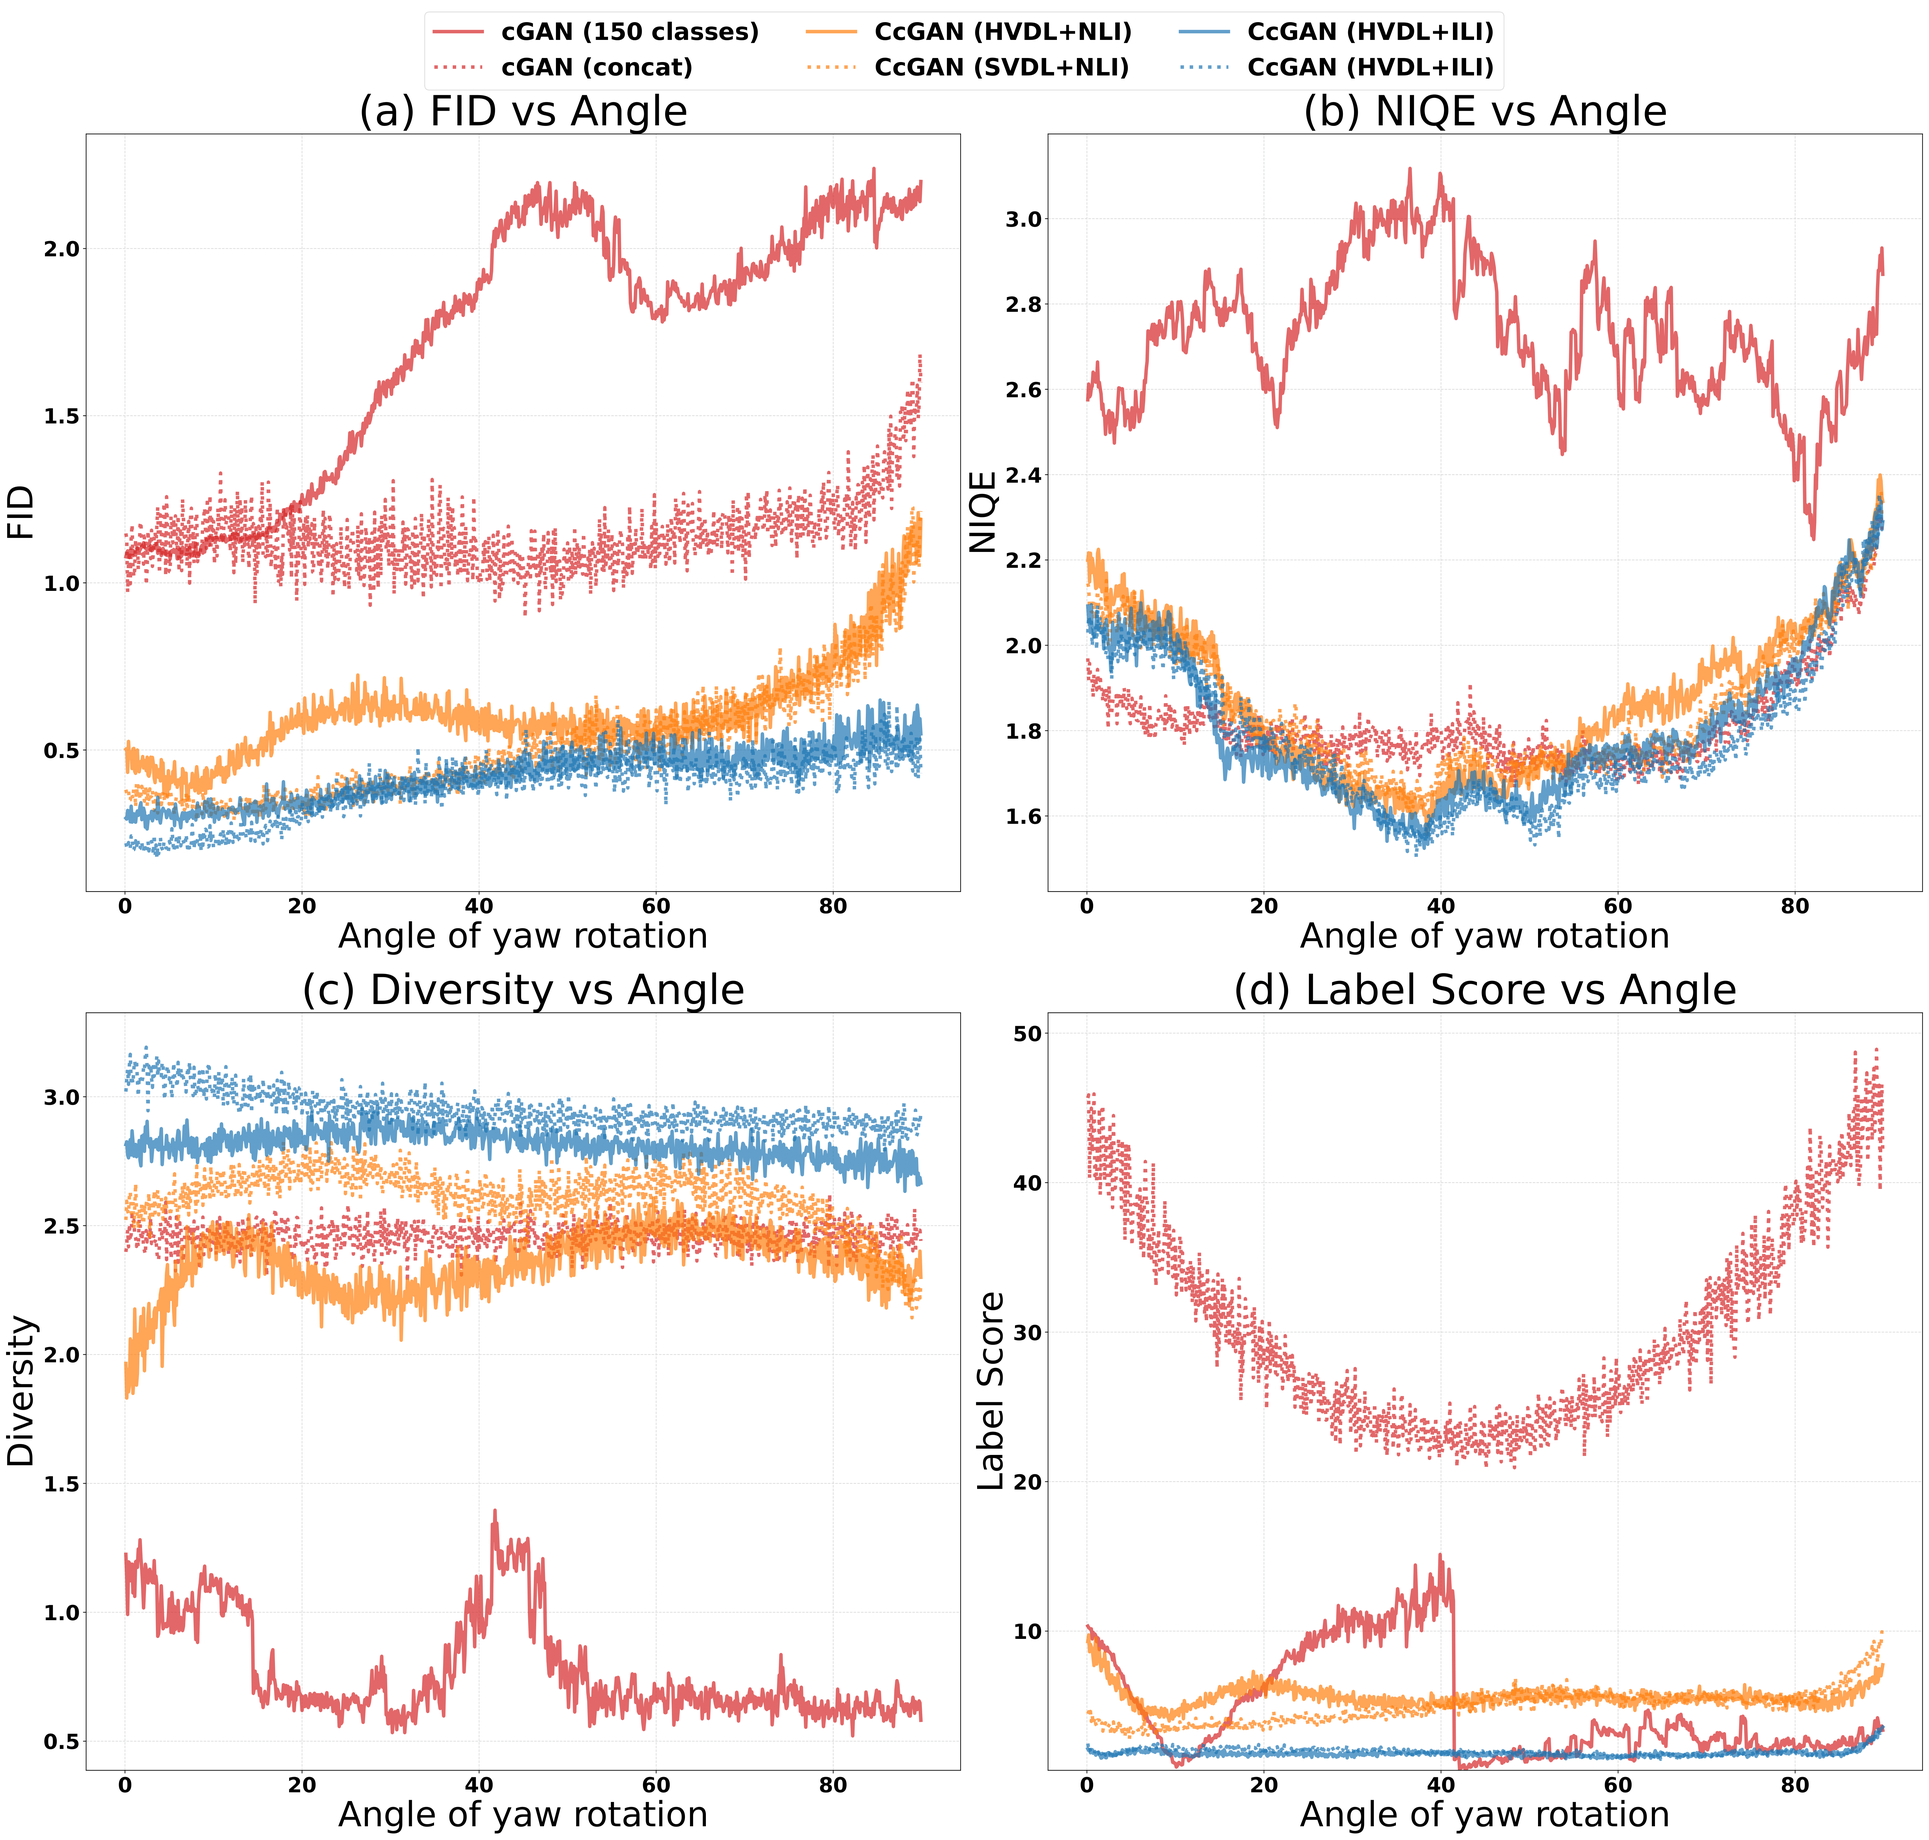
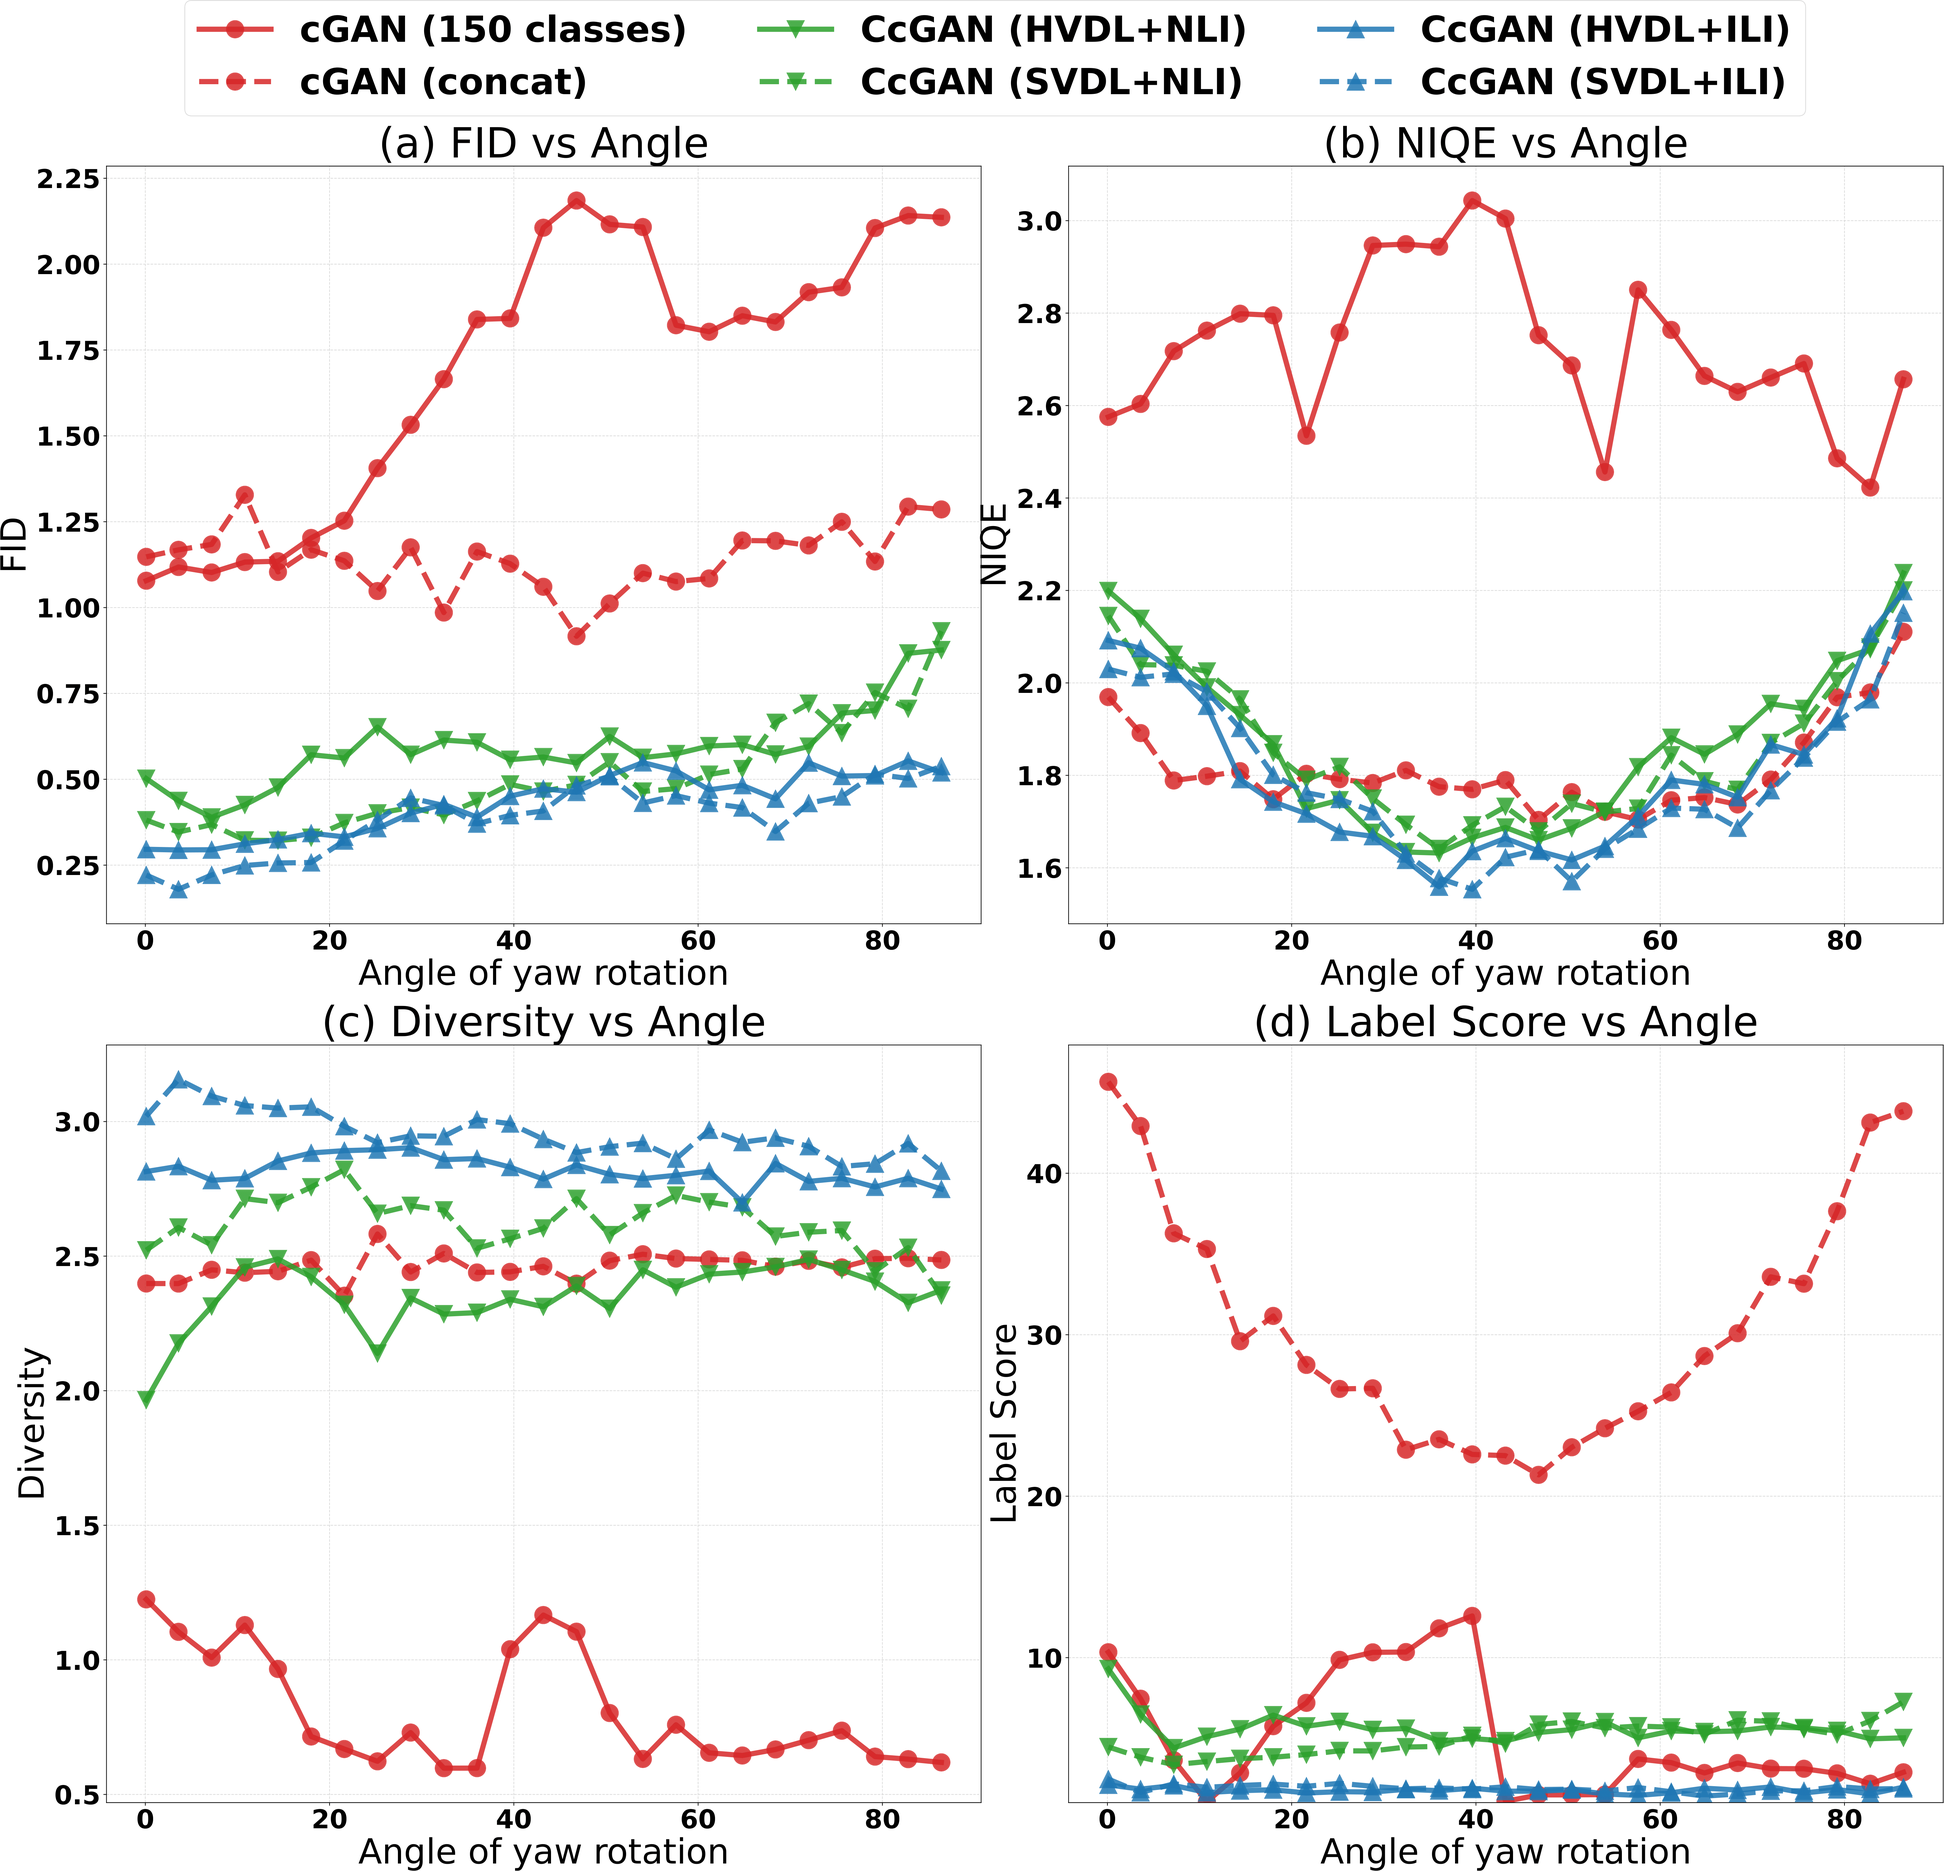
fixed a typo

diff --git a/README.md b/README.md
@@ -1,5 +1,6 @@
 # Continuous Conditional Generative Adversarial Networks
 
+**[UPDATE! 2023-08-01]** We fixed a typo in the codes for computing the Label Score for the Steering Angle (128x128) experiments (the 64x64 experiments are NOT affected). The original evaluation code tends to under-estimate the Label Scores of compared methods. After the fixing, the Label Scores of cGAN (210 classes), cGAN (concat), and CcGAN (SVDL+ILI) are respectively 31.756 (23.005), 42.757 (27.341), and 18.438 (16.072). Fortunately, the conclusion that CcGAN substantially outperforms cGANs is unchanged! <br />
 **[UPDATE! 2022-12-10]** A journal version of CcGAN is accepted by T-PAMI ([link](https://ieeexplore.ieee.org/document/9983478))! <br />
 **[UPDATE! 2021-07-28]** We provide codes for training CcGAN on **high-resolution** RC-49, UTKFace, and Steering Angle where the resolution varies from **128x128** to **256x256**. We also provide simplified codes for computing NIQE. <br />
 **[UPDATE! 2021-07-27]** We add a new baseline cGAN (concat) which directly appends regression labels to the input of generator and the last hidden map of discriminator. cGAN (K classes) and cGAN (concat) are two modifications on conventional cGANs (to fit the regression scenario) and they show two types of failures of conventional cGANs. (1) cGAN (K classes) has high label consistency but bad visual quality and low intra-label diversity. (2) cGAN (concat) has high intra-label diversity but bad/fair visual quality and terrible label consistency. <br />
@@ -11,23 +12,23 @@ This repository provides the source codes for the experiments in our papers for 
 If you use this code, please cite
 ```text
 @ARTICLE{9983478,
-  author={Ding, Xin and Wang, Yongwei and Xu, Zuheng and Welch, William J. and Wang, Z. Jane},
-  journal={IEEE Transactions on Pattern Analysis and Machine Intelligence}, 
-  title={Continuous Conditional Generative Adversarial Networks: Novel Empirical Losses and Label Input Mechanisms}, 
-  year={2023},
-  volume={45},
-  number={7},
-  pages={8143-8158},
-  doi={10.1109/TPAMI.2022.3228915}
+    author={Ding, Xin and Wang, Yongwei and Xu, Zuheng and Welch, William J. and Wang, Z. Jane},
+    journal={IEEE Transactions on Pattern Analysis and Machine Intelligence}, 
+    title={Continuous Conditional Generative Adversarial Networks: Novel Empirical Losses and Label Input Mechanisms}, 
+    year={2023},
+    volume={45},
+    number={7},
+    pages={8143-8158},
+    doi={10.1109/TPAMI.2022.3228915}
 }
 
 @inproceedings{
-      ding2021ccgan,
-      title={Cc{GAN}: Continuous Conditional Generative Adversarial Networks for Image Generation},
-      author={Xin Ding and Yongwei Wang and Zuheng Xu and William J Welch and Z. Jane Wang},
-      booktitle={International Conference on Learning Representations},
-      year={2021},
-      url={https://openreview.net/forum?id=PrzjugOsDeE}
+    ding2021ccgan,
+    title={Cc{GAN}: Continuous Conditional Generative Adversarial Networks for Image Generation},
+    author={Xin Ding and Yongwei Wang and Zuheng Xu and William J Welch and Z. Jane Wang},
+    booktitle={International Conference on Learning Representations},
+    year={2021},
+    url={https://openreview.net/forum?id=PrzjugOsDeE}
 }
 ```
 
